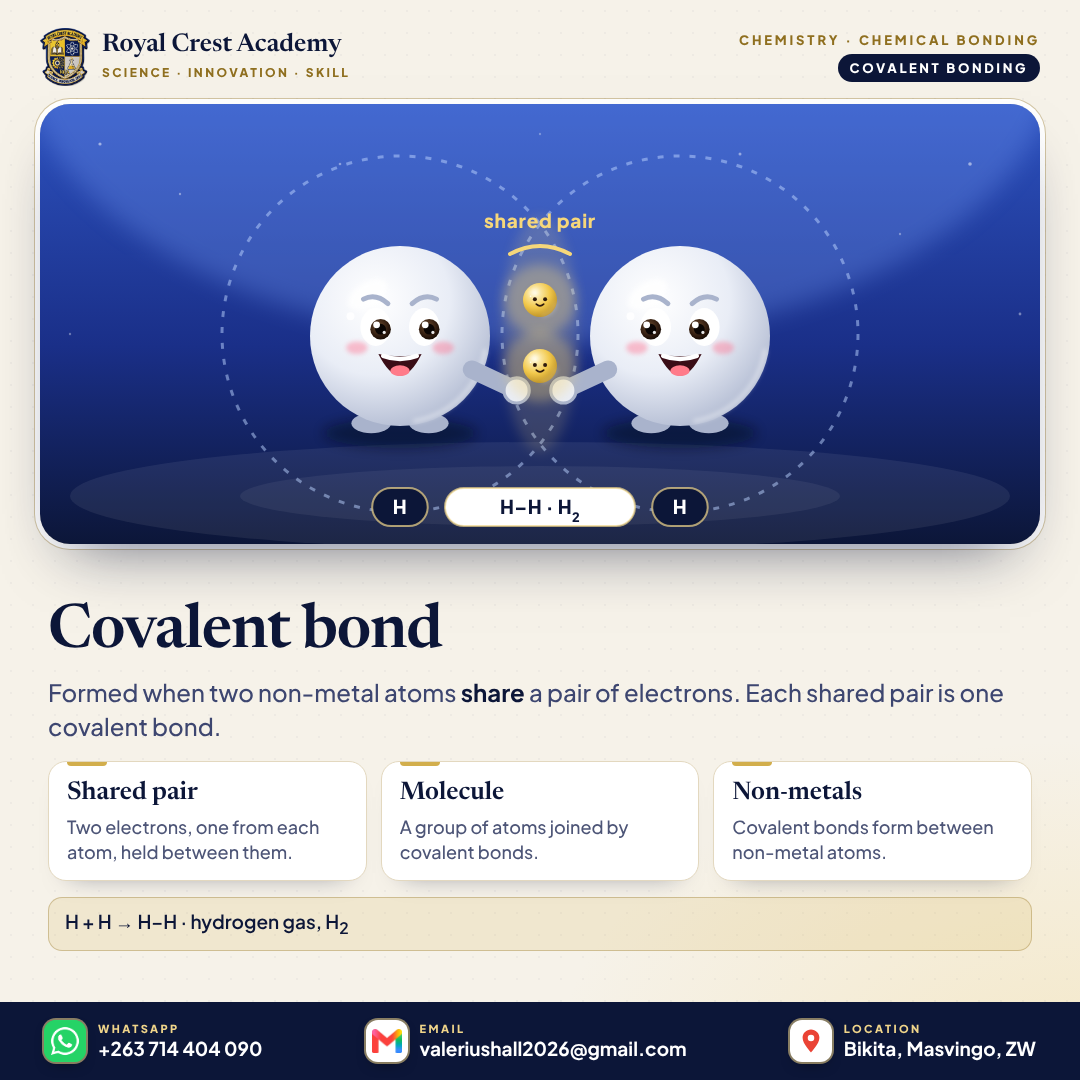
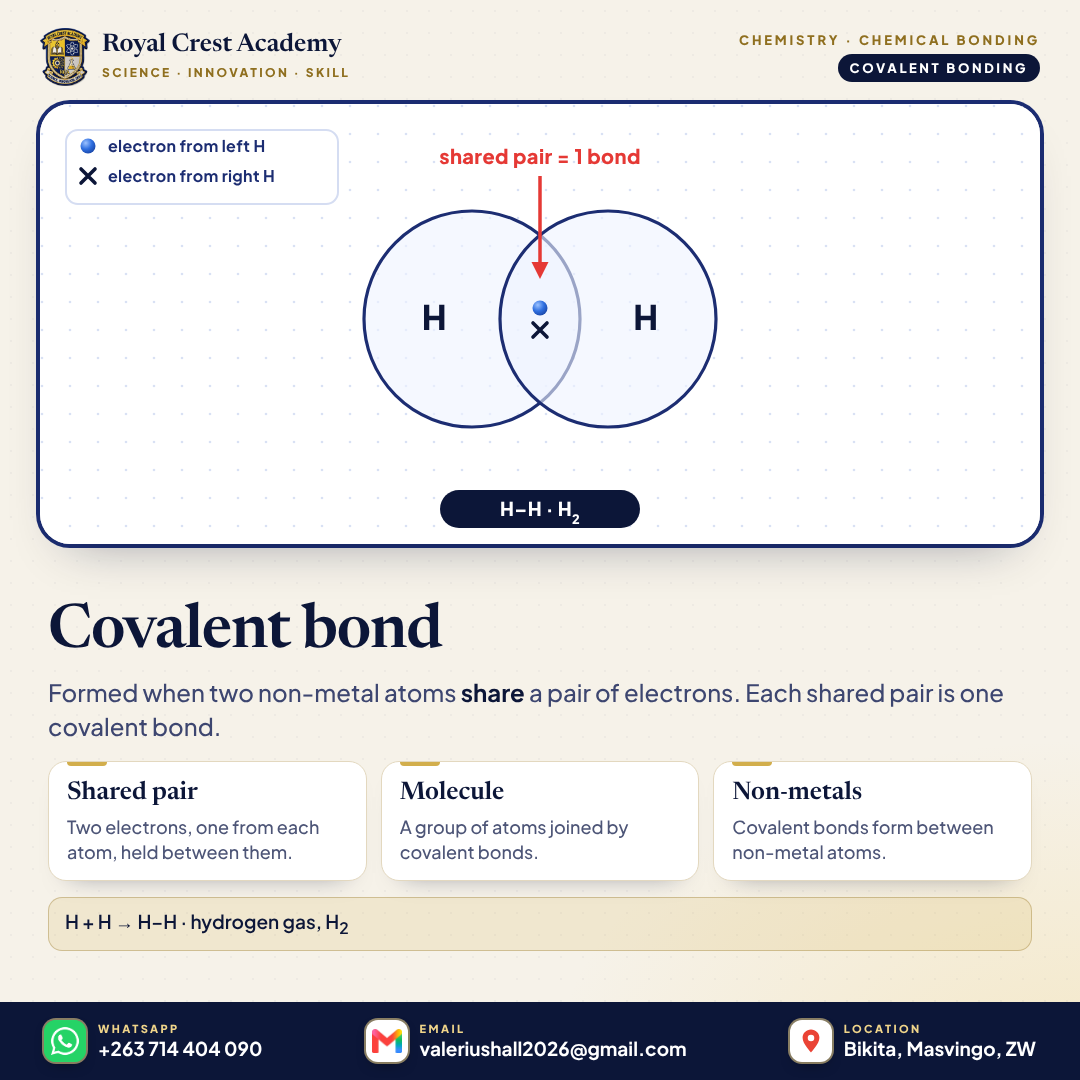
Chemical Bonding: replace cartoon atoms with plain textbook diagrams
Swap the six chemistry flyers' character art for simple Bohr and
dot-and-cross diagrams (shell rings, electron dots and crosses, red
arrows, a small key), and tidy two captions to match.

Claude-Session: https://claude.ai/code/session_01VA81fbygN7AdBFJfw315EN

diff --git a/chemistry/index.html b/chemistry/index.html
@@ -1,7 +1,7 @@
 <!doctype html>
 <html lang="en-ZW"><head><meta charset="utf-8"><meta name="viewport" content="width=device-width, initial-scale=1">
 <title>Chemical Bonding · Royal Crest Academy</title>
-<meta name="description" content="Six illustrated chemistry flyers from Royal Crest Academy, Bikita: ionic and covalent bonds, cations and anions, the octet rule and bond types, each with a ready-to-share caption.">
+<meta name="description" content="Six textbook-style chemistry flyers with dot-and-cross diagrams from Royal Crest Academy, Bikita: ionic and covalent bonds, cations and anions, the octet rule and bond types, each with a ready-to-share caption.">
 <meta name="theme-color" content="#0C1638"><link rel="canonical" href="https://www.royalcrest.co.zw/chemistry/">
 <meta property="og:title" content="Chemical Bonding · Royal Crest Academy"><meta property="og:image" content="https://www.royalcrest.co.zw/chemistry/flyers/bond-1-ionic-bond.png">
 <link rel="icon" type="image/png" href="/favicon.png">
@@ -58,7 +58,7 @@ main { max-width: 1180px; margin: 0 auto; padding: 36px 16px 64px; display: grid
   <h2>Ionic bond (electrovalent)</h2>
   <pre class="cap">⚡ Ionic bond (electrovalent): when atoms GIVE and TAKE electrons!
 
-Sodium (Na 2,8,1) hands its 1 outer electron to chlorine (Cl 2,8,7). Now Na⁺ and Cl⁻ have opposite charges and hold on tight. 💜💚
+Sodium (Na 2,8,1) hands its 1 outer electron to chlorine (Cl 2,8,7). Now Na⁺ and Cl⁻ have opposite charges, held together by strong electrostatic attraction.
 
 🔑 Electron transfer · Ions · Electrostatic attraction
 🧂 Example: Na + Cl → Na⁺Cl⁻, sodium chloride (table salt)
@@ -92,8 +92,8 @@ Chemistry at Royal Crest Academy: Form 1 · 2027 enrolment open
   <h2>Cation &amp; anion</h2>
   <pre class="cap">➕➖ Cation or anion? Here&#x27;s how to never mix them up!
 
-🟣 Cation (+): LOST electrons, usually a metal (Na⁺, Mg²⁺, Ca²⁺)
-🟢 Anion (−): GAINED electrons, usually a non-metal (Cl⁻, O²⁻, S²⁻)
+🔹 Cation (+): LOST electrons, usually a metal (Na⁺, Mg²⁺, Ca²⁺)
+🔸 Anion (−): GAINED electrons, usually a non-metal (Cl⁻, O²⁻, S²⁻)
 📏 Cations get smaller, anions get bigger
 
 🐱 Memory tip: cats have paws, so CATions are PAWS-itive!
